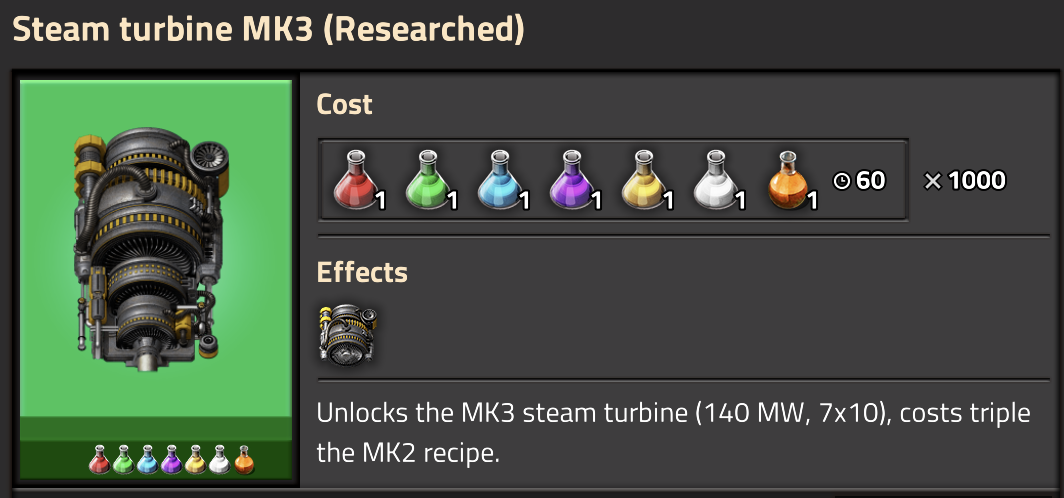
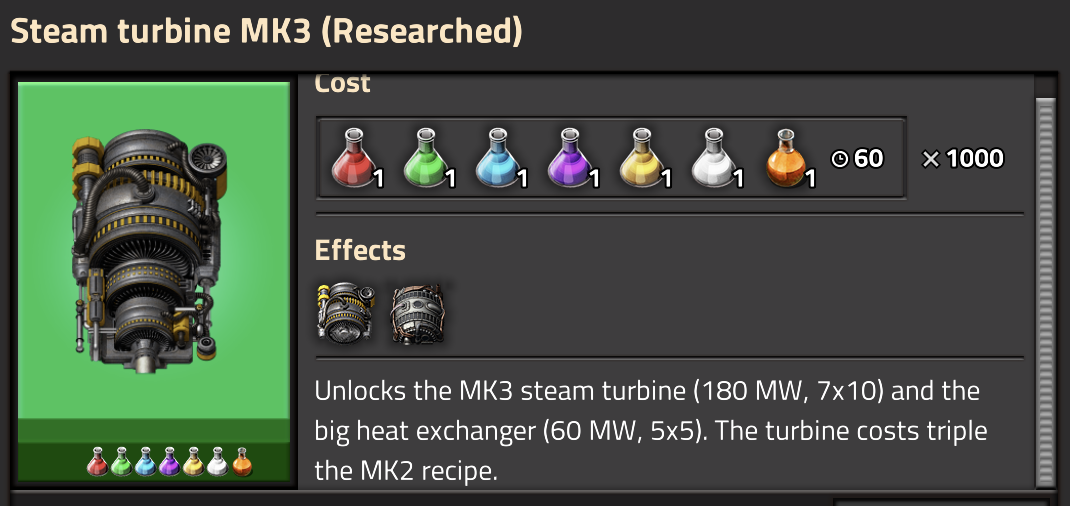
1.1.0: Big Heat Exchanger (60 MW, 5x5) unlocked with Steam Turbine MK3; MK2 weighs 500 kg (two per rocket)

Changed region(s): [[0.0, 0.1205, 1.0, 1.0], [0.062, 0.241, 0.2171, 0.753], [0.0, 0.0301, 0.4962, 0.0904]]

diff --git a/README.md b/README.md
@@ -1,6 +1,6 @@
     ## Steam Turbine Upgrades
 
-    Adds two bigger steam turbines: MK2 and MK3. They run on regular late-game steam and consume it at the same rate per MW as the vanilla turbine, so they only save space, not steam. Power output is adjustable in mod settings.
+    Adds two bigger steam turbines: MK2 and MK3, plus a big heat exchanger. The turbines run on regular late-game steam and consume it at the same rate per MW as the vanilla turbine, so they only save space, not steam. Power output is adjustable in mod settings.
 
     ## New technologies
 
@@ -9,6 +9,7 @@
         -   Nuclear power - otherwise;
     -   Steam Turbine MK3 (1000 of each science pack), unlocks after:
         -   Steam Turbine MK2;
+    -   The MK3 technology also unlocks the Big Heat Exchanger;
 
     ## New entities
 
@@ -22,17 +23,22 @@
         -   Produces 180 MW by default, occupies 7x10 tiles;
         -   Same steam consumption model as the MK2;
         -   Steam buffer of 6000 steam (MK2 holds 2000), so it absorbs demand spikes smoothly;
+    -   Big heat exchanger:
+        -   Consumes 60 MW of heat by default, occupies 5x5 tiles;
+        -   Produces steam like 6 vanilla heat exchangers (~618.5 steam/s at 500°C);
+        -   One heat port (south), one steam output (north), water in from the sides - consolidates 6 vanilla exchangers into a single entity;
 
     ## Additional features
 
-    -   Power output of both turbines is configurable in settings (MK2: 10-100 MW, MK3: 16-300 MW; changing it requires a restart);
-    -   Steam consumption scales with the output setting automatically;
+    -   Power output of the turbines and heat consumption of the big heat exchanger are configurable in settings (MK2: 10-100 MW, MK3: 16-300 MW, exchanger: 16-100 MW; changing it requires a restart);
+    -   Steam consumption/production scales with the output setting automatically;
+    -   The big heat exchanger recipe costs exactly 6x the vanilla heat exchanger (60 steel, 600 copper, 60 pipes);
     -   Without Space Age:
         -   The technology tree falls back to the vanilla branch (after nuclear power);
         -   Recipes use only vanilla items;
         -   In the Space Age branch the recipes also use tungsten plates;
     -   The MK3 recipe costs exactly 3x the MK2 recipe;
-    -   Weighs 200 kg per unit (a full stack of 5 fits into one rocket) for MK2 and one ton (exactly one per rocket) for MK3;
+    -   Weighs 500 kg per unit (two units per rocket) for MK2 and the big heat exchanger, and one ton (exactly one per rocket) for MK3;
     -   Vanilla turbine sound and smoke, tuned per orientation;
 
     ## Existing saves
